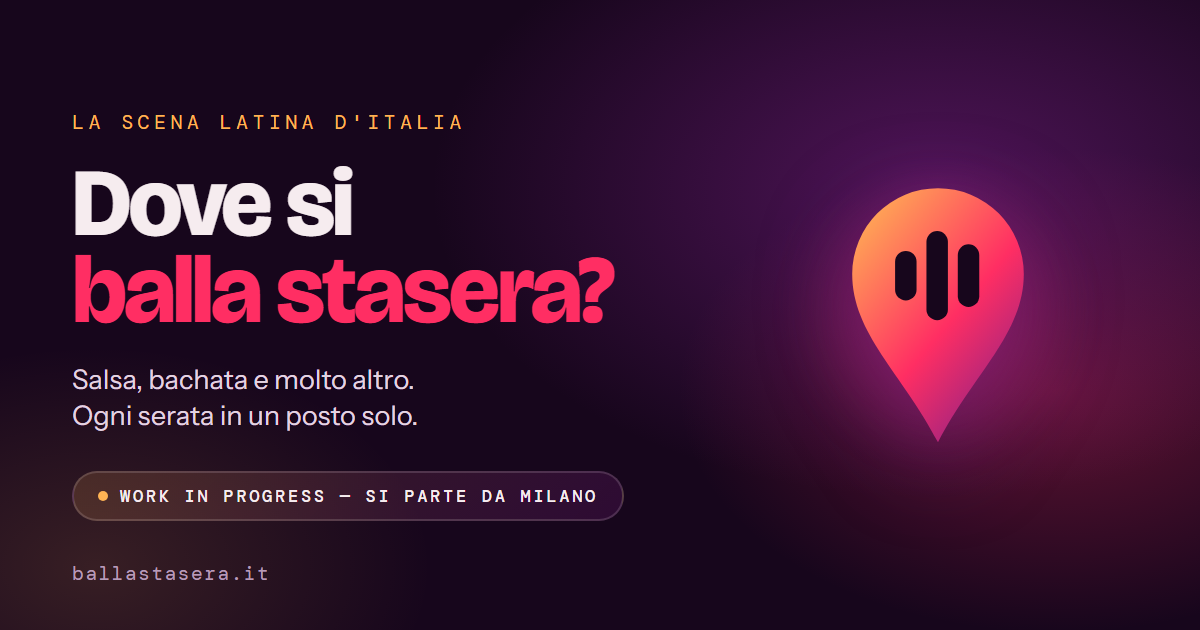
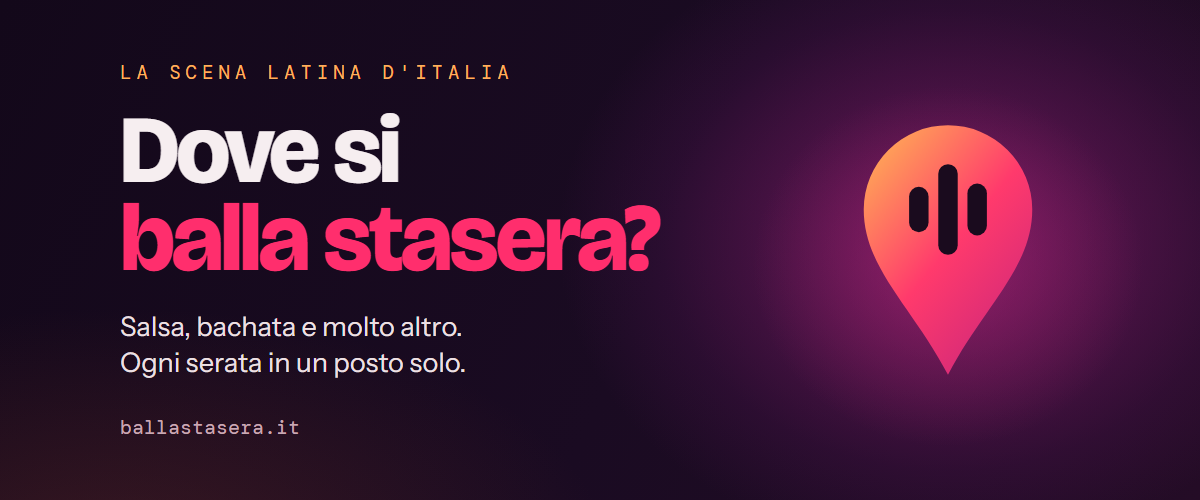
Drop 'work in progress' from the share image

diff --git a/src/index.html b/src/index.html
@@ -23,7 +23,7 @@
   <meta property="og:image" content="https://ballastasera.it/og-image.png">
   <meta property="og:image:type" content="image/png">
   <meta property="og:image:width" content="1200">
-  <meta property="og:image:height" content="630">
+  <meta property="og:image:height" content="500">
   <meta property="og:image:alt" content="ballastasera — Dove andare a ballare stasera?">
 
   <!-- X / Twitter -->
